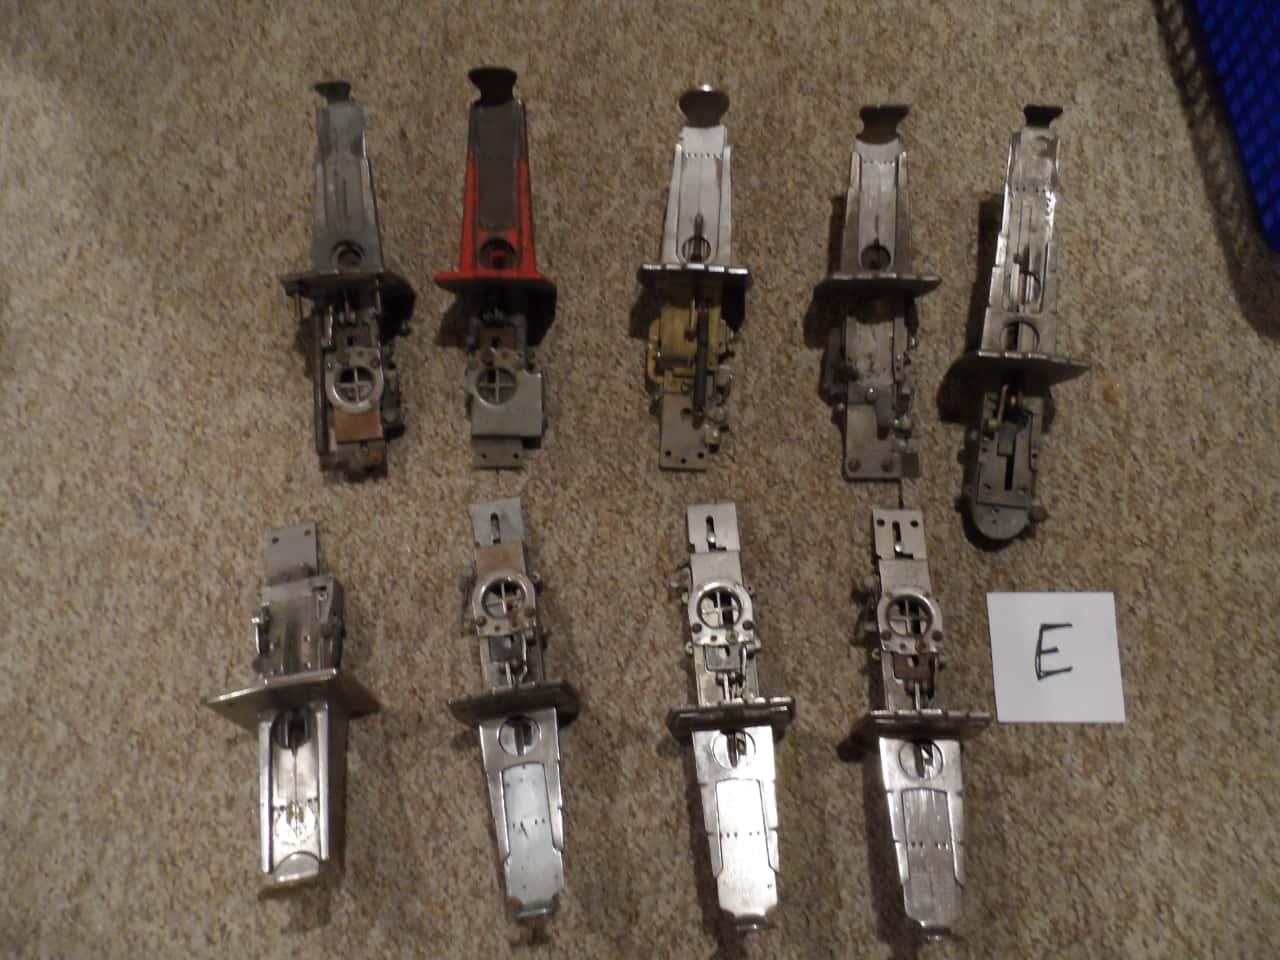
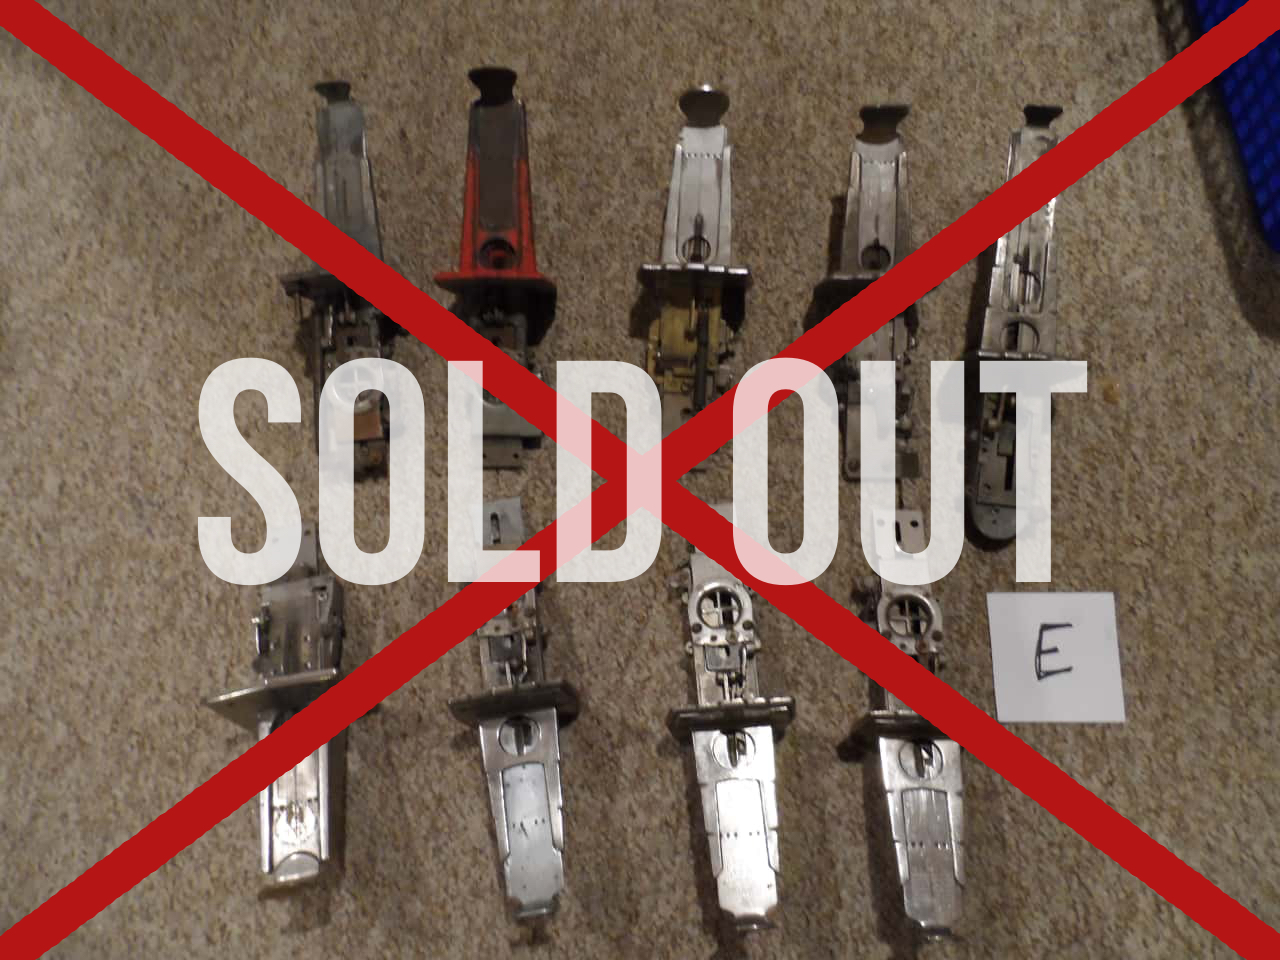
removed big bin e

Changed region(s): [[0.0, 0.0, 1.0, 1.0]]

diff --git a/src/components/partsforsale.js b/src/components/partsforsale.js
@@ -23,7 +23,8 @@ class PartsForSale extends React.Component {
         </Helmet>
         <HalfHero title="PARTS FOR SALE" image="/images/home/banner/img6-half.jpeg" />
         <Container style={{paddingTop:"20px"}}>
-          <h3 className="text-center">Everything currently in our inventory is listed for sale on this parts page. If it isn't pictured, we do not have it. 
+          <h3 className="text-center">Everything currently in our inventory is listed for sale on this parts page. 
+            If a part is not pictured, we do not have it. If the Bin Letter/Number is no longer listed, it has been completely sold out. 
             Please <a href="/contact">contact us</a> if you are interested in purchasing parts. Include the Bin Name and Letter/Number in your inquiry. Thanks!
           </h3>
         </Container>
